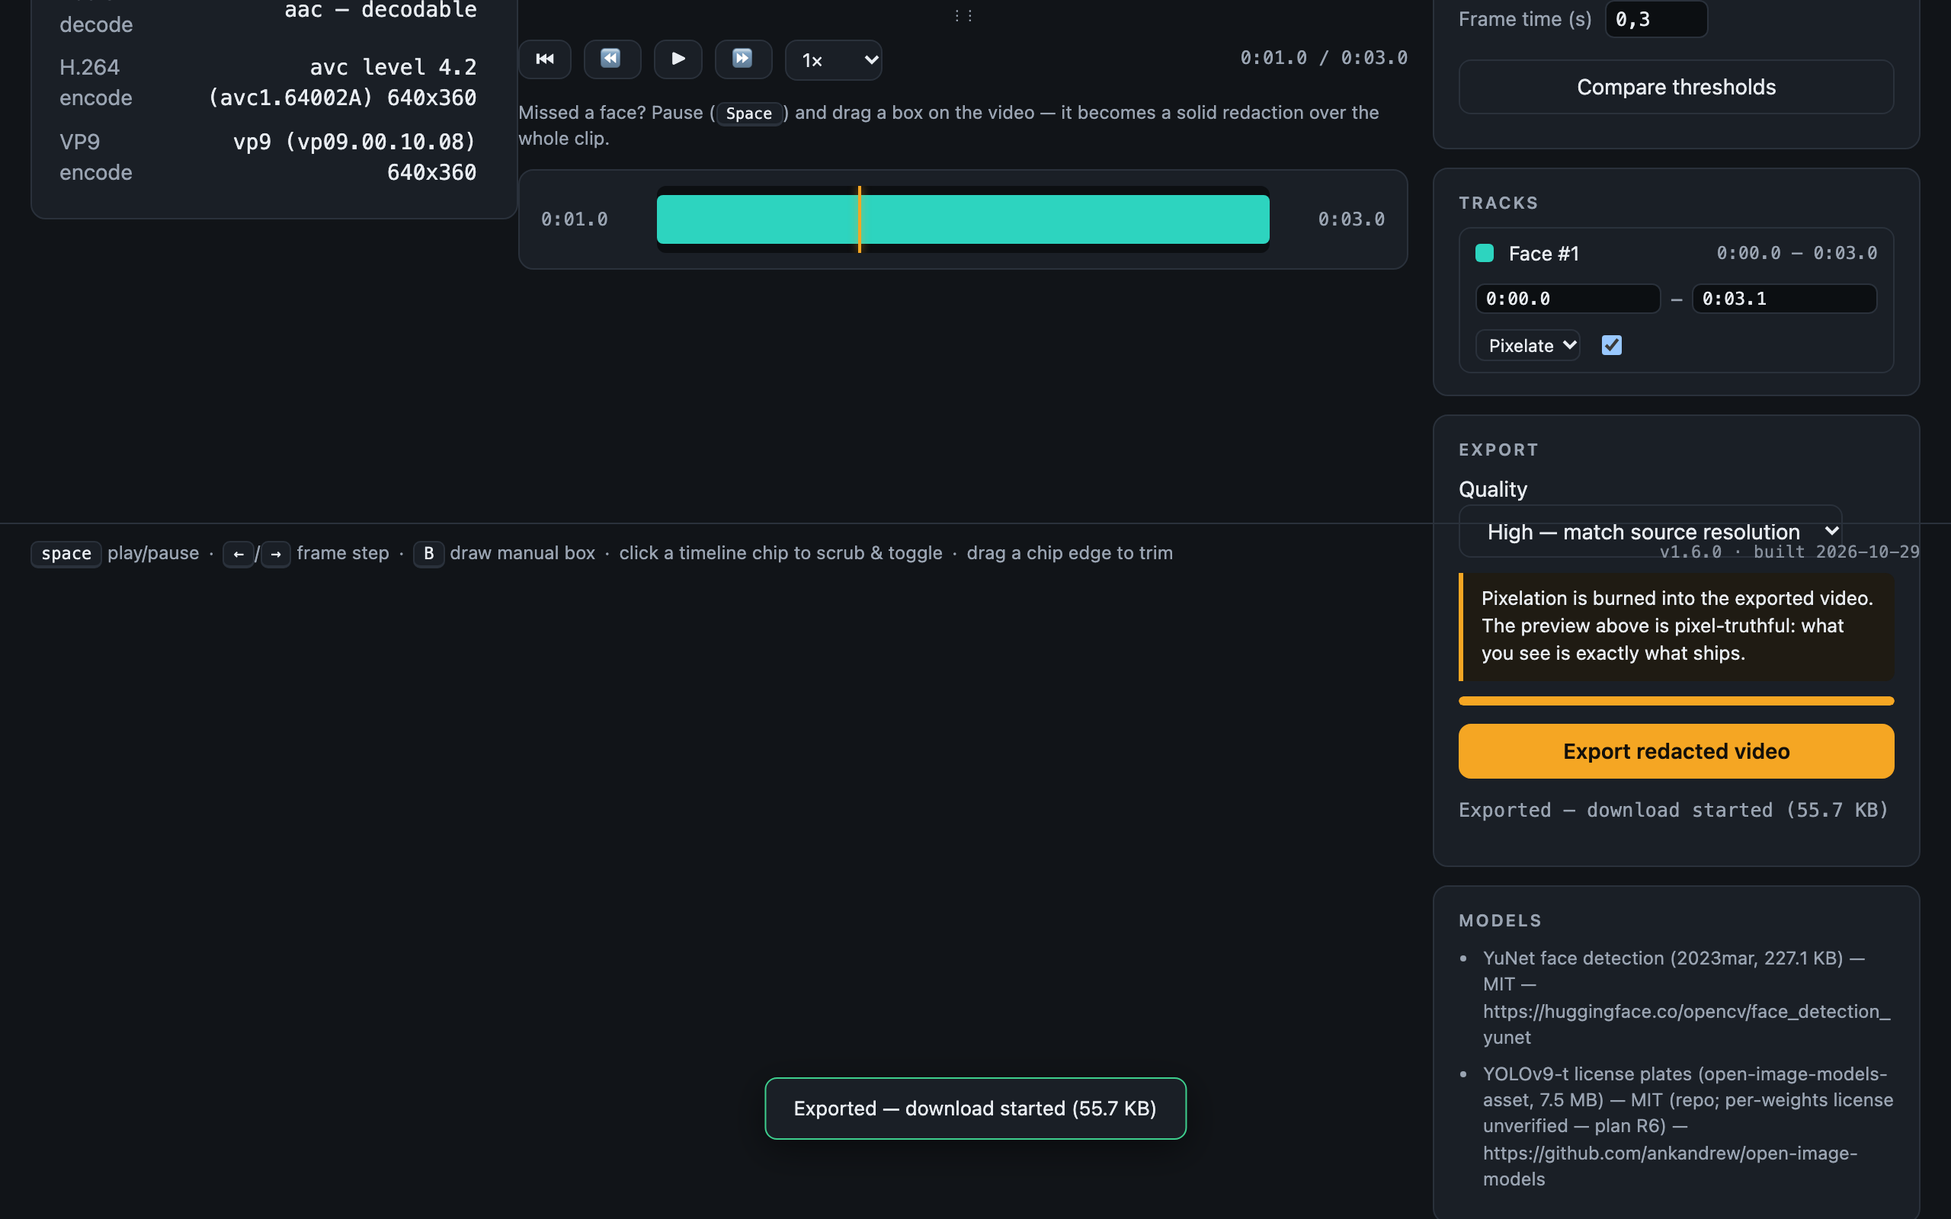
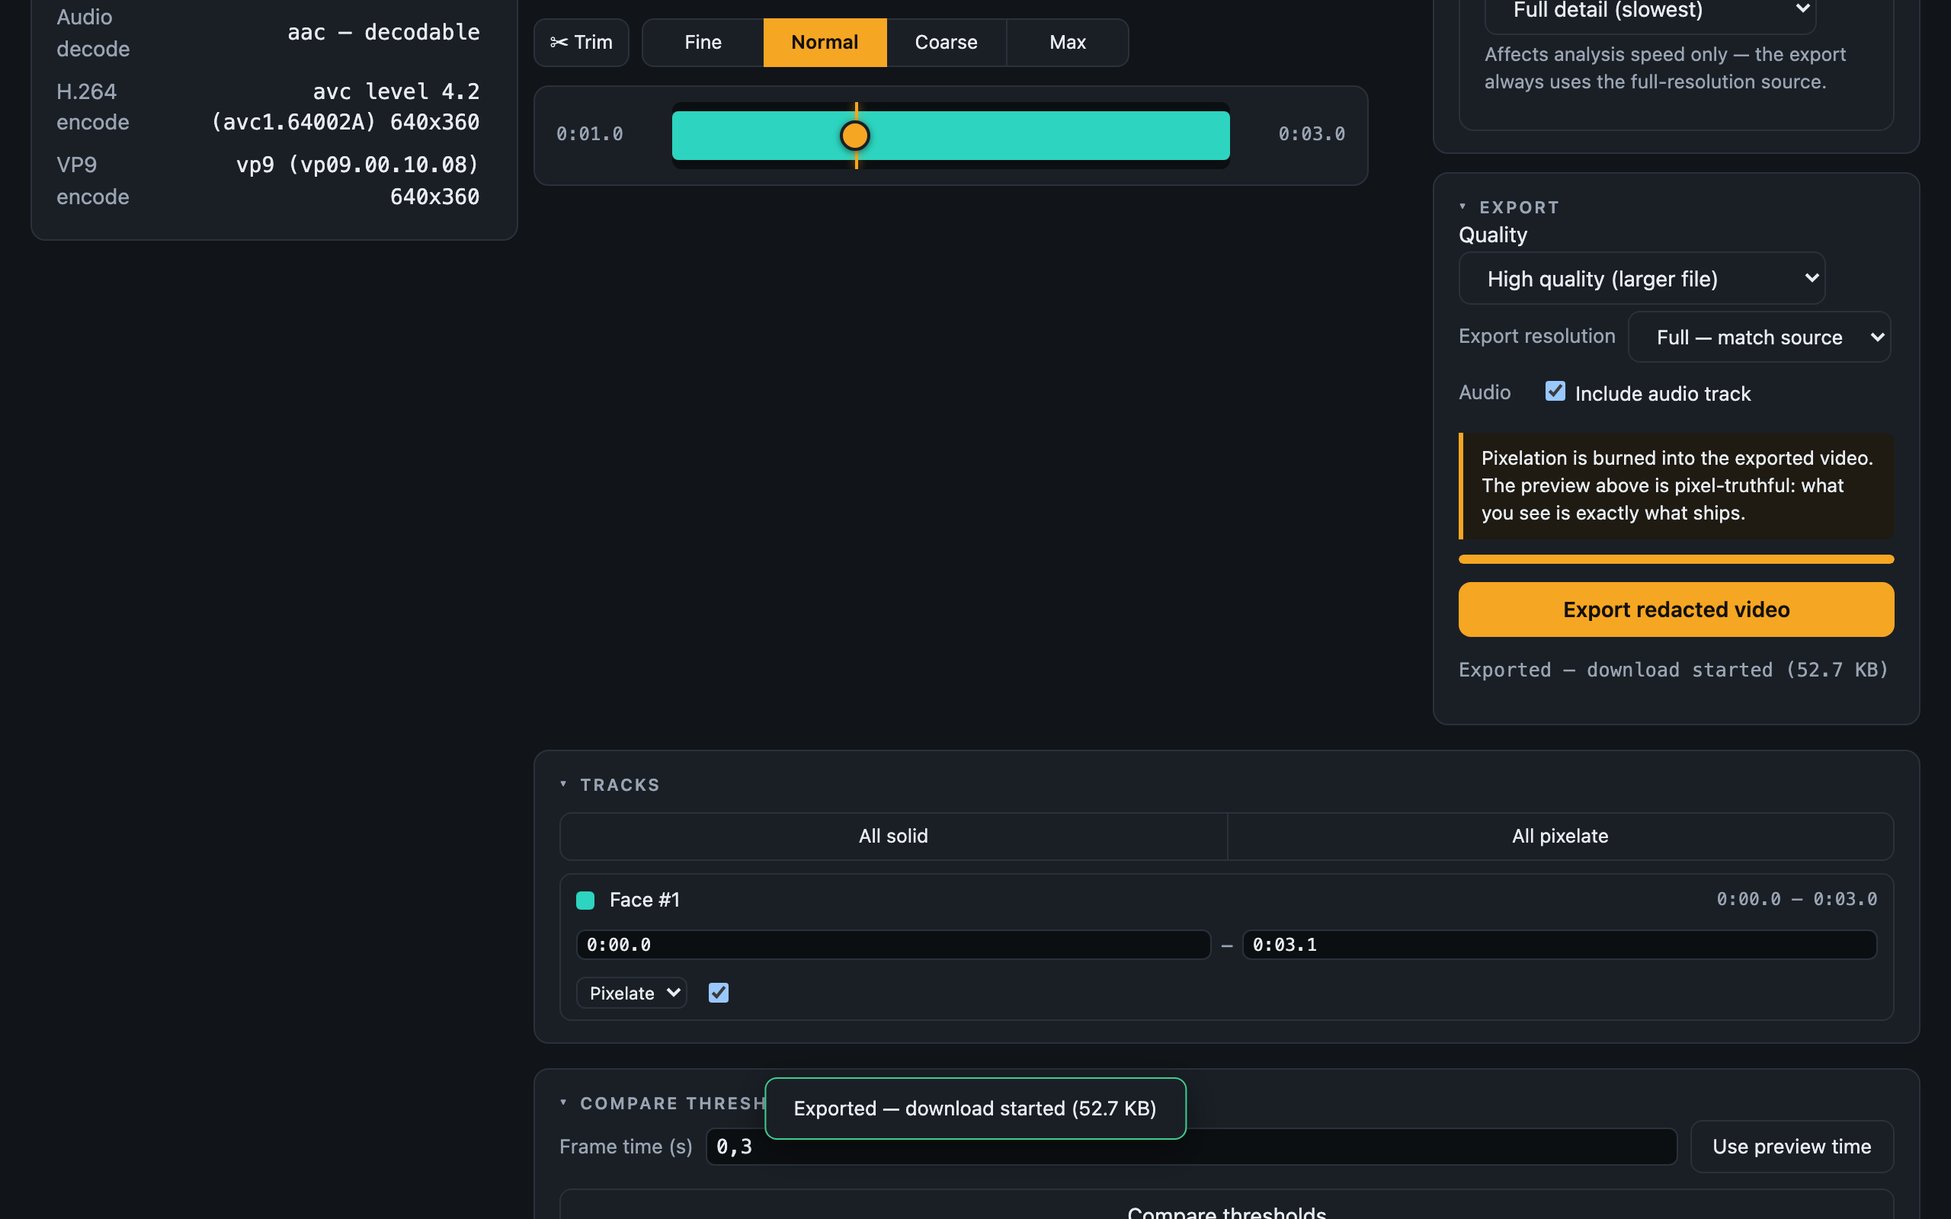
fix: v1.17.1 — export resolution/audio settings wiped by the export click
Root cause (probe-reproduced with a real 2560x1440 export): clicking
Export called resetExportUi() FIRST, which reset the resolution select
to Full and re-checked audio BEFORE startExport read the settings —
every export ran with defaults regardless of the user's choices.

Fix: split resetExportUi (progress/status only) from resetExportChoices
(resolution + audio) — the latter runs ONLY on file load and Clear; an
export click keeps the user's choices. Real-browser probe
(tools/debug-export-settings.mjs): 2560x1440 source exported at 720p
with audio off -> exactly 1280x720, 0 audio tracks. Also isolates and
documents mediabunny 1.63 semantics (audio discard + scaled-canvas
output both verified, tools/debug-mb-semantics.mjs).

Evidence: 765/765 unit, 6/6 E2E, gate exit 0.

SPEC: SPEC-VID-002 REQ-127 follow-up

diff --git a/src/main.js b/src/main.js
@@ -2081,10 +2081,18 @@ export async function mountApp(
   }
 
   function resetExportUi() {
+    // v1.17.1 CRITICAL FIX: this used to ALSO reset the export choices
+    // (resolution → 'full', audio → checked) — and startExport() calls it
+    // BEFORE reading the settings, so every export ran with defaults no
+    // matter what the user chose (field report: resolution/audio removal
+    // 'not working'). Choices now reset ONLY on file load and Clear via
+    // resetExportChoices(); an export click keeps them.
     setBar(els.exportBar, 0);
     if (els.exportStatus) els.exportStatus.textContent = '';
-    // v1.16.0: resolution + audio reset with every export-panel reset
-    // (file load, Clear, re-export).
+  }
+
+  /** Choice reset (resolution + audio) — file load and Clear ONLY. */
+  function resetExportChoices() {
     if (els.exportResolution) els.exportResolution.value = 'full';
     if (els.exportAudio) els.exportAudio.checked = true;
   }
@@ -2342,6 +2350,7 @@ export async function mountApp(
     syncSpeedSelects();
     resetAnalyzeUi();
     resetExportUi();
+    resetExportChoices(); // v1.17.1: file load resets the export choices
     refreshTrackUi();
     // v1.12.0: the REQ-117/120 analyze settings reset per file (consistent
     // with the other analyze-panel controls), and the REQ-119 file-info
@@ -2582,6 +2591,7 @@ export async function mountApp(
     hideFileInfo(); // v1.12.0 REQ-119: the file-info block goes away
     resetAnalyzeUi();
     resetExportUi();
+    resetExportChoices(); // v1.17.1: Clear resets the export choices
     if (els.trackList) els.trackList.textContent = '';
     if (els.chips) els.chips.replaceChildren();
     if (els.playhead) els.playhead.style.left = '0%';

diff --git a/tests/unit/version.test.js b/tests/unit/version.test.js
@@ -49,10 +49,10 @@ describe('formatVersionBadge (footer version badge)', () => {
   });
 });
 
-describe('v1.17.0 version stamping wiring', () => {
-  it('package.json is at the 1.17.0 release version', () => {
+describe('v1.17.1 version stamping wiring', () => {
+  it('package.json is at the 1.17.1 release version', () => {
     const pkg = JSON.parse(readFileSync(join(ROOT, 'package.json'), 'utf8'));
-    expect(pkg.version).toBe('1.17.0');
+    expect(pkg.version).toBe('1.17.1');
   });
 
   it('index.html hosts the #app-version badge in the footer', () => {

diff --git a/README.md b/README.md
@@ -12,10 +12,10 @@ Local, in-browser video redaction: faces and license plates are detected automat
 | --- | --- |
 | ![Review — pixel-truthful preview, transport bar, timeline chips, track list](docs/screenshots/03-review.png) | ![Export — download started, all steps done](docs/screenshots/04-export.png) |
 
-1. **Landing** — drop a video; the four-step stepper (Capability check → Analyze → Review → Export) and the footer version badge (`v1.10.0 · built <build date>`).
-2. **Capability** — after opening a file, the app reports container/codec/resolution/fps/audio plus decode and encode probes *before* Analyze is offered. Undecodable files are blocked here, with guidance. The Analyze panel carries the detection-sensitivity sliders and a single-frame "Compare thresholds" preview.
-3. **Review** — detected tracks render as colored chips over their redacted span; the preview is pixel-truthful (it draws the exact redaction the export burns in). Toggle any track, switch its style (pixelate/solid), trim its span, scrub with the transport bar, or draw manual regions (`B`).
-4. **Export** — re-encoded H.264/MP4 (VP9/WebM fallback) with redactions burned in; original audio is packet-copied bit-for-bit.
+1. **Landing** — drop a video; the four-step stepper (Capability check → Analyze → Review → Export), the header actions (light/dark theme toggle, Save/Load project) and the footer version badge (`v1.17.0 · built <build date>`).
+2. **Capability** — after opening a file, the app reports container/codec/resolution/fps/audio plus decode and encode probes *before* Analyze is offered. Undecodable files are blocked here, with guidance. The Analyze panel carries the detection-sensitivity sliders, a minimum-object-size filter (Any / ≥24 / ≥48 / ≥96 px), a detection-detail selector (analysis speed only), and a single-frame "Compare thresholds" preview.
+3. **Review** — detected tracks render as colored chips over their redacted span; the preview is pixel-truthful (it draws the exact redaction the export burns in). Toggle any track, switch its style (pixelate/solid, or restyle all at once), trim its span, scrub with the transport bar, draw manual regions (`B`), or mark trim regions (✂) to delete from the export.
+4. **Export** — re-encoded H.264/MP4 (VP9/WebM fallback) with redactions burned in; original audio is packet-copied bit-for-bit, or dropped entirely via the "Include audio" checkbox; export resolution is Full (match source) / 1080p / 720p.
 
 ## Quick start
 
@@ -35,12 +35,15 @@ Then open <http://localhost:8000/dist/index.html>. Or skip the local setup entir
 
 - **Ingest** — demuxes `.mov` / MP4 / WebM locally via mediabunny 1.63.0, including iPhone HEVC `.mov` (hardware decode required) and ProRes via the `@mediabunny/prores` extension. Metadata and rotation are reported before any processing.
 - **Capability gate** — per-track decode probes (`track.canDecode()`) and export-encode probes (WebCodecs `isConfigSupported`, H.264 level ladder + VP9) are shown as a report; undecodable input is blocked with actionable guidance and no partial processing.
-- **Detection** — YuNet face detection (2023mar, 640×640 letterboxed) and YOLOv9-t-640 end-to-end license-plate detection, running via onnxruntime-web 1.31.1 with a WebGPU → WASM execution-provider ladder. "Dashcam mode" adds a second tiled pass for small/distant faces and plates — tiles split along the dominant axis, so portrait frames tile vertically into stacked rows. Face/plate confidence thresholds are configurable via sensitivity sliders, and a single-frame comparison shows five fixed threshold levels side by side before you commit to a full analysis.
+- **Detection** — YuNet face detection (2023mar, 640×640 letterboxed) and YOLOv9-t-640 end-to-end license-plate detection, running via onnxruntime-web 1.31.1 with a WebGPU → WASM execution-provider ladder. "Dashcam mode" adds a second tiled pass for small/distant faces and plates — tiles split along the dominant axis, so portrait frames tile vertically into stacked rows. Face/plate confidence thresholds are configurable via sensitivity sliders, and a single-frame comparison shows five fixed threshold levels side by side before you commit to a full analysis — the comparison honors your dashcam-mode, minimum-object-size and detection-detail settings, so panels show what a real analyze would find.
 - **Tracking** — detections are linked into persistent labeled tracks ("Face #1", "Plate #4") with IoU-gated association and a constant-velocity Kalman filter; gaps are interpolated, and every span is padded ±5 frame periods and dilated 15% (7.5% per side) so no unredacted frame of a detected object survives (privacy-critical AC-05).
 - **Review** — timeline chips with draggable edge handles, per-track redact/keep-visible toggles, and a per-track redaction style (pixelate or solid black), plus a visible draggable scrub handle on the timeline (drag it to scrub — reliably with a desktop mouse too — tap the track to jump, arrow-key steppable when focused). The timeline, scrub handle and Space playback are live the moment a video is loaded — before any analysis — and manual regions drawn pre-analysis are preserved through it. The scrub thumb follows playback even where the frame loop never fires (a `timeupdate` fallback carries it), keyboard shortcuts keep working after clicking any control, and editor mount/tick failures stay isolated (a readable toast — the rest of the app keeps working). Manual regions drawn on the video (`B`) span the whole clip by default and are trimmed via chip edges or per-track start/end inputs. The preview is pixel-truthful (preview and export share the same render code path) with a transport bar (frame stepping, 0.25×–4× speed, audio mute mirrored into the enlarged-preview controls), fullscreen/enlarge mode with auto-hiding overlay controls, and a draggable preview-height handle.
-- **Trim (v1.15.0)** — toggle ✂ Trim and drag on the timeline to mark regions for deletion: greyed-out overlays with draggable ✂ edges, multiple regions supported, and the export ships only the kept segments concatenated with continuous timestamps (no re-encode; no trims → unchanged single-pass export).
+- **Trim (v1.15.0–v1.15.2)** — toggle ✂ Trim (timeline area) and drag on the timeline to mark regions for deletion: greyed-out overlays with draggable ✂ edges, multiple regions supported, and the export ships only the kept segments concatenated with continuous timestamps (no re-encode; no trims → unchanged single-pass export). Analysis skips frames inside trim regions entirely — large trims make the detect pass proportionally faster and keep ghost tracks out of the list.
+- **Pixelation strength (v1.17.0)** — Fine / Normal / Coarse / Max block-size multiplier (×1–×4; Normal doubles the original block size), applied identically in preview and export.
+- **Project save/load (v1.17.0)** — 💾 Save project downloads a `.vrproj` (JSON: settings, trim regions, tracks incl. manual regions, video identity — no video bytes); 📂 Load project restores it, re-associating the video file with readable mismatch warnings and typed errors for corrupt projects.
+- **Workspace layout (v1.11.0–v1.14.0)** — keyboard transport (`←`/`→` jump ±5 s, `Shift+←/→` frame-step, `F` fullscreen/enlarge, `M` mute, `Space` play/pause, `B` draw box), light theme via a header toggle (persisted), file-info block above the capability report, optional analysis downscale (Full / 1080p / 720p) for faster 4K passes, bulk "All solid" / "All pixelate" restyle buttons, collapsible panels, the Models panel under the footer, compare-thresholds + track list stacked below the timeline, a "Use preview time" button in the compare panel, and draggable resize handles for the preview-stage height, the right rail width, and the intake-panel width (keyboard + double-click reset on each).
 - **Mobile** — at viewport widths ≤ 820 px the app collapses to a single column with ≥ 40 px touch targets; timeline chip-edge grab zones widen on touch pointers and tap-to-seek fires on pointerup (works on iOS Safari/WebKit).
-- **Export** — every frame is decoded, redactions burned into the pixels, and the video re-encoded (H.264/MP4 primary → software H.264 → VP9/WebM fallback ladder); audio packets are copied without re-encoding (AAC → MP4, Opus/Vorbis → WebM). Output streams to disk-backed storage (OPFS / File System Access) with progress and cancellation.
+- **Export** — every frame is decoded, redactions burned into the pixels, and the video re-encoded (H.264/MP4 primary → software H.264 → VP9/WebM fallback ladder); audio packets are copied without re-encoding (AAC → MP4, Opus/Vorbis → WebM) or dropped entirely. Export resolution (Full / 1080p / 720p) scales the burn-in canvas, redaction boxes and encoder hints together. Output streams to disk-backed storage (OPFS / File System Access) with progress and cancellation.
 - **Clear** — the header "✕ Clear" button (styled red as a destructive action) aborts any in-flight pass, unloads the video (blob URL, decoder, export temps) and resets every panel to the landing view; the model cache and your preview-stage height survive.
 
 ## Privacy
@@ -85,7 +88,7 @@ npm run dev           # static server on 127.0.0.1:8000 (no-store; serves src/ E
 npm test              # vitest unit suite (node environment)
 npm run test:coverage # v8 coverage; >= 85% line gate on the 8 logic modules
 npm run test:e2e      # Playwright, Chromium, serial workers (needs: npx playwright install chromium)
-npm run build         # tools/inline.mjs -> single-file dist/index.html (~200 KiB)
+npm run build         # tools/inline.mjs -> single-file dist/index.html (~281 KiB)
 npm run lint          # eslint (flat config)
 npm run typecheck     # tsc --noEmit (checkJs over JSDoc types)
 npm run gate          # lint && typecheck && test && build
@@ -93,18 +96,19 @@ npm run gate          # lint && typecheck && test && build
 
 - **Layout** — `index.html` (dev shell: importmap pins, CSP, UI), `src/` (one module per pipeline stage; JSDoc-typed via `src/types.js`), `tools/` (dev server, inliner, fixture/screenshot/debug scripts), `tests/unit/`, `tests/e2e/`, `tests/fixtures/`, `docs/screenshots/`.
 - **Single-file build** — `tools/inline.mjs` bundles `src/main.js` with esbuild (CDN bare specifiers stay external and resolve through the dist importmap), inlines the bundle into `index.html`, stamps `__APP_VERSION__`/`__BUILD_DATE__`, and fails the build if any `src/` reference leaks.
-- **Testing** — TDD per module: pure logic (tracker, redact geometry, timeline model, detector decode, exporter ladder) is unit-tested in node with seams/mocks; the browser stack (decode, inference, export burn-in) is covered by Playwright end-to-end tests (5 spec files, incl. an auto-detect journey with a real YuNet detection and an offline-models run).
-- **Specs** — requirements and architecture live under `.moai/specs/SPEC-VID-001/` (base app) and `.moai/specs/SPEC-VID-002/` (review UX & manual redaction amendments, v1.1.0–v1.5.0).
+- **Testing** — TDD per module: pure logic (tracker, redact geometry + strength, timeline model incl. trims, detector decode, exporter ladder + geometry scaling, project serialize/parse) is unit-tested in node with seams/mocks; the browser stack (decode, inference, export burn-in) is covered by Playwright end-to-end tests (5 spec files, incl. an auto-detect journey with a real YuNet detection and an offline-models run).
+- **Specs** — requirements and architecture live under `.moai/specs/SPEC-VID-001/` (base app) and `.moai/specs/SPEC-VID-002/` (review UX & manual redaction amendments, v1.1.0–v1.17.0, REQ-101…130).
 
 ## Versioning
 
-Current version: **1.10.0** (see [CHANGELOG.md](CHANGELOG.md)). The version lives in `package.json` (single source of truth); `npm run build` stamps it — with the build date (UTC calendar date of the build) — into the dist bundle. At runtime it appears in the footer badge (`v1.10.0 · built <date>`) and in the console at boot; with `?debug=1` every diagnostic line also carries the running bundle identity. Dev mode (unbuilt) shows `dev build (unbuilt)`.
+Current version: **1.17.0** (see [CHANGELOG.md](CHANGELOG.md)). The version lives in `package.json` (single source of truth); `npm run build` stamps it — with the build date (UTC calendar date of the build) — into the dist bundle. At runtime it appears in the footer badge (`v1.17.0 · built <date>`) and in the console at boot; with `?debug=1` every diagnostic line also carries the running bundle identity. Dev mode (unbuilt) shows `dev build (unbuilt)`.
 
 ## Known limitations (v1)
 
-- Pixelate and solid black are the only redaction styles (no blur).
+- Pixelate and solid black are the only redaction styles (no blur) — pixelation *strength* (v1.17.0) varies the block size, not the style.
 - No plate OCR / character reading and no face recognition — detection + redaction only.
-- No audio redaction or audio editing; audio is copied as-is.
+- No partial audio editing; the audio track is copied as-is or dropped whole (v1.16.0 "Include audio" checkbox) — no per-region audio redaction.
 - iPhone HDR/Dolby Vision footage exports tone-mapped to SDR (warned in the UI).
 - One file per session — no batch processing.
+- A saved `.vrproj` project holds settings/tracks/trims and video identity only — the video file itself is re-associated on load, not embedded.
 - Pixelation is obfuscation, not cryptography (the app says so; the minimum block-size rule keeps regions practically unreadable).

diff --git a/docs/README.md b/docs/README.md
@@ -4,9 +4,9 @@ Screenshots of the shipped app (captured from the real `dist/index.html` in head
 
 | File | Shows |
 | --- | --- |
-| [01-landing.png](screenshots/01-landing.png) | Fresh intake: stepper at ① Capability check, drop zone, footer version badge (the ✕ Clear / Open another file header actions appear once a file is loaded) |
-| [02-capability.png](screenshots/02-capability.png) | File opened: capability report (container/codec/resolution/fps/audio, decode + encode probes, inference provider), Analyze panel with dashcam toggle, detection-sensitivity sliders (face/plate), "Compare thresholds" section, transport bar + timeline |
+| [01-landing.png](screenshots/01-landing.png) | Fresh intake: stepper at ① Capability check, drop zone, footer version badge, header theme toggle + Save/Load project buttons, keyboard-shortcut legend, Models panel below the footer (the ✕ Clear / Open another file header actions appear once a file is loaded) |
+| [02-capability.png](screenshots/02-capability.png) | File opened: file-info block + capability report (container/codec/resolution/fps/audio, decode + encode probes, inference provider), Analyze panel with dashcam toggle, detection-sensitivity sliders (face/plate), minimum-object-size filter, detection-detail selector, export settings (quality / resolution / audio), transport bar + timeline with the ✂ Trim toggle and pixel-strength group |
 | [03-review.png](screenshots/03-review.png) | After analyze: pixel-truthful preview with detected track overlay, timeline chip, track row with span inputs + style dropdown + toggle |
-| [04-export.png](screenshots/04-export.png) | After export: "Exported — download started" confirmation with the success toast (the stepper is out of frame in this scrolled view) |
+| [04-export.png](screenshots/04-export.png) | After export: "Exported — download started" confirmation with the success toast, export settings (quality / resolution / Include audio), Tracks panel with All solid / All pixelate, compare-thresholds section below (the stepper is out of frame in this scrolled view) |
 
 The visual flow and captions live in the root [README.md](../README.md).

diff --git a/CHANGELOG.md b/CHANGELOG.md
@@ -6,6 +6,11 @@ The format is based on the Keep a Changelog convention, and this project adheres
 
 ## [Unreleased]
 
+## [1.17.1] — 2026-10-31
+
+### Fixed
+- Export resolution and audio removal did not apply (field report with an affected export): clicking Export called resetExportUi() FIRST, which reset the resolution select to Full and re-checked audio BEFORE the settings were read — every export ran with defaults. Choices now reset only on file load and Clear; an export click keeps them. Verified with a real-browser probe: a 2560×1440 source exported at 720p with audio off produces exactly 1280×720 with 0 audio tracks (tools/debug-export-settings.mjs).
+
 ## [1.17.0] — 2026-10-31
 
 ### Fixed
